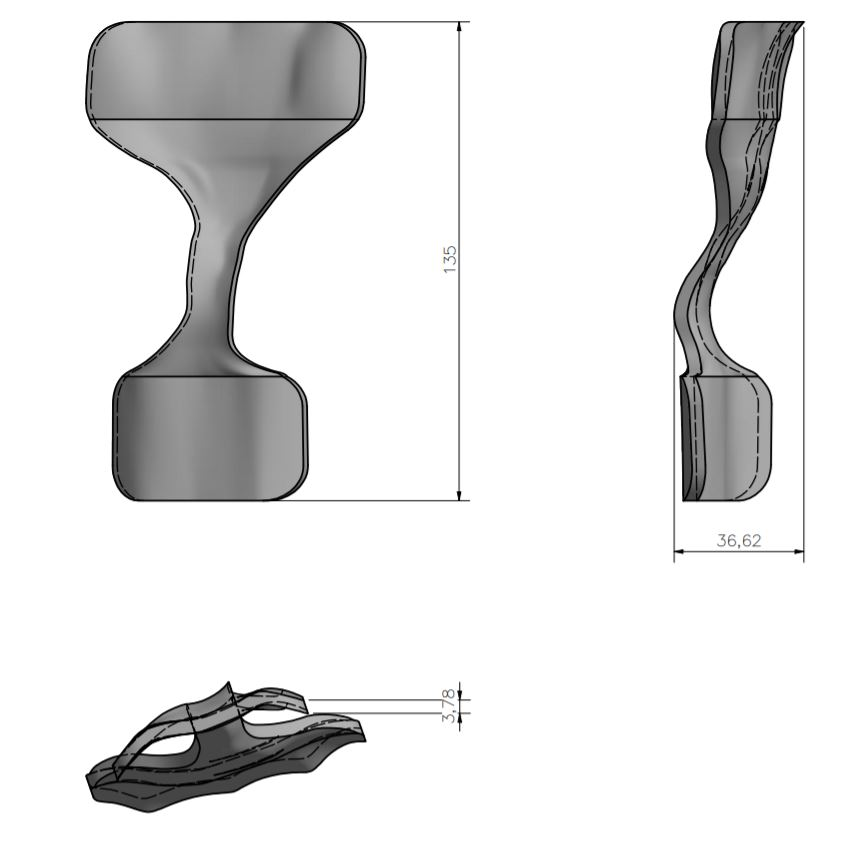
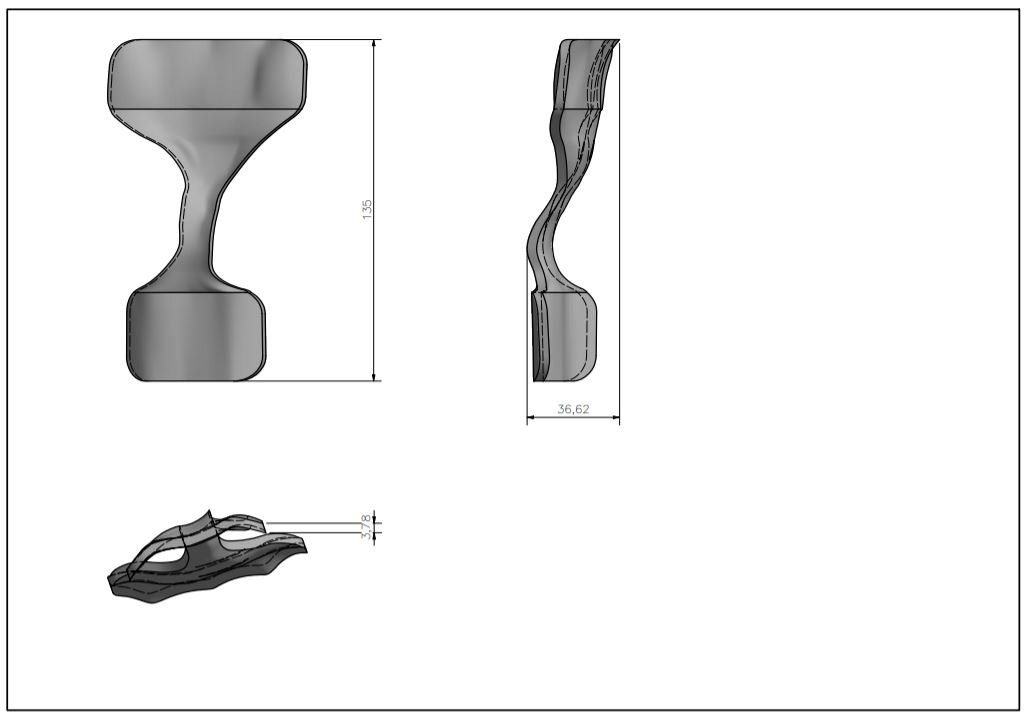
Planos 2d

Changed region(s): [[0.0, 0.0, 1.0, 1.0], [0.3361, 0.275, 0.3666, 0.3056]]

diff --git a/Semana6.html b/Semana6.html
@@ -65,15 +65,15 @@
       <img
         src="images/Palma plano2D.JPG"
         alt="Modelado 2D"
-        width="850px"
-        height="840px"
+        width="1030px"
+        height="720px"
       </br>
       <h3>Antepalma</h3>
       <img
         src="images/Antepalma plano2D.JPG"
         alt="Modelado 2D"
-        width="1000px"
-        height="700px"
+        width="1030px"
+        height="720px"
       />
       <h2>Modelado 3D</h2>
       <h3>Palma</h3>
